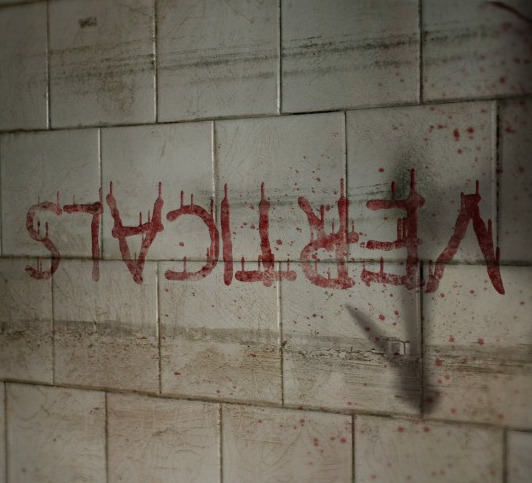
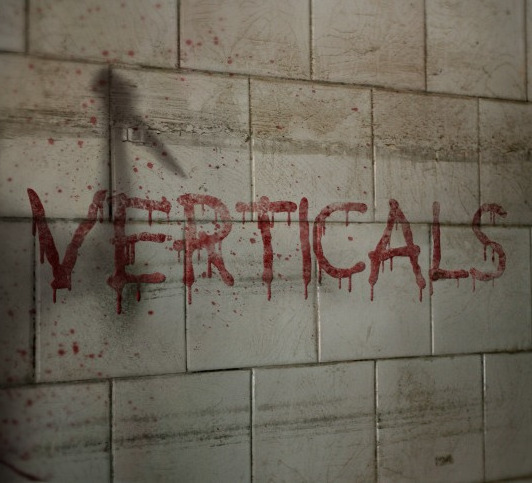
Fixed texture coordinates problems.

diff --git a/src/ScpMeshCollection.cpp b/src/ScpMeshCollection.cpp
@@ -68,8 +68,8 @@ GLSimpleMesh createCubeMesh(GLuint textureId, ftype textureMaxX, ftype textureMa
                         face.vertices.push_back(cubeVerts[indices[t]]);
                         
                         face.textureCoords.push_back(glm::vec2(
-                            (t == 1 || t == 2) ? 1 - textureMaxX : 1,
-                            (t == 2 || t == 3) ? 1 - textureMaxY : 1));
+                            (t == 1 || t == 2) ? textureMaxX : 0,
+                            (t == 2 || t == 3) ? textureMaxY : 0));
                     }
                     
                     cube.faces.push_back(face);
@@ -466,15 +466,15 @@ GLSimpleMesh sge::loadColladaMesh(const char* colladaFileName)
         
         GLSingleTextureMesh submesh;
         
-        GLuint currentTexture = TextureManager::instance().retrieveTexture(texturePath).openglId;
-        submesh.textureId = currentTexture;
+        const Texture& currentTexture = TextureManager::instance().retrieveTexture(texturePath);
+        submesh.textureId = currentTexture.openglId;
         
         int perVertex = (int)indices.size() / (nFaces * vertexCounts[0]);
         int currentOffset = 0;
         for (int i = 0; i < nFaces; i++)
         {
             GLSimpleFace face;
-            face.textureId = currentTexture;
+            face.textureId = currentTexture.openglId;
             face.isCollisionActive = false;
             face.isClimber = false;
             face.walkingSpeed = 1.0;
@@ -488,7 +488,13 @@ GLSimpleMesh sge::loadColladaMesh(const char* colladaFileName)
                 face.vertices.push_back(vec3(*base, *(base + 2), -*(base + 1)));
                 
                 ftype* textureBase = texcoordsFrom->data() + indices[currentOffset + texcoordOffset] * 2;
-                face.textureCoords.push_back(glm::vec2(*textureBase, *(textureBase + 1)));
+                
+                ftype u = *textureBase * currentTexture.getMaxU();
+                ftype v = (1 - *(textureBase + 1)) * currentTexture.getMaxV();
+                
+                //printf("tex coord %f %f\n", u, v);
+                
+                face.textureCoords.push_back(glm::vec2(u, v));
                 
                 submesh.vertices.push_back(face.vertices.back());
                 submesh.textureCoords.push_back(face.textureCoords.back());

diff --git a/src/Textures.cpp b/src/Textures.cpp
@@ -24,8 +24,8 @@ unique_ptr<Texture> createTextureFromSurface(SDL_Surface* surface)
     
     texture.extendedWidth = extendToPowerOfTwo(texture.originalWidth);
     texture.extendedHeight = extendToPowerOfTwo(texture.originalHeight);
-
-	SDL_Surface* image = SDL_CreateRGBSurface(SDL_SWSURFACE, texture.originalWidth, texture.originalHeight,
+    
+	SDL_Surface* image = SDL_CreateRGBSurface(SDL_SWSURFACE, texture.extendedWidth, texture.extendedHeight,
                                               32, 0x000000FF, 0x0000FF00, 0x00FF0000, 0xFF000000);
 	if (image == nullptr)
         return texturePtr;
@@ -33,17 +33,18 @@ unique_ptr<Texture> createTextureFromSurface(SDL_Surface* surface)
 	SDL_BlendMode saved_mode;
 	SDL_GetSurfaceBlendMode(surface, &saved_mode);
 	SDL_SetSurfaceBlendMode(surface, SDL_BLENDMODE_NONE);
-
-	SDL_Rect all = { 0, 0, texture.originalWidth, texture.originalHeight };
-	SDL_BlitSurface(surface, &all, image, &all);
-
+    
+	SDL_Rect src = { 0, 0, texture.originalWidth, texture.originalHeight };
+	SDL_Rect dst = { 0, 0 };
+	SDL_BlitSurface(surface, &src, image, &dst);
+    
 	SDL_SetSurfaceBlendMode(surface, saved_mode);
 
 	glGenTextures(1, &texture.openglId);
 	glBindTexture(GL_TEXTURE_2D, texture.openglId);
 	glTexParameteri(GL_TEXTURE_2D, GL_TEXTURE_MAG_FILTER, GL_LINEAR);
 	glTexParameteri(GL_TEXTURE_2D, GL_TEXTURE_MIN_FILTER, GL_LINEAR);
-	glTexImage2D(GL_TEXTURE_2D, 0, GL_RGBA, texture.originalWidth, texture.originalWidth, 0, GL_RGBA, GL_UNSIGNED_BYTE, image->pixels);
+	glTexImage2D(GL_TEXTURE_2D, 0, GL_RGBA, texture.extendedWidth, texture.extendedHeight, 0, GL_RGBA, GL_UNSIGNED_BYTE, image->pixels);
 	SDL_FreeSurface(image);
 
 	return texturePtr;

diff --git a/src/GLUtils.cpp b/src/GLUtils.cpp
@@ -33,7 +33,7 @@ void GLSingleTextureMesh::render() const
     {
         const vec3& vertex = vertices[triangleIndices[i]];
         const vec2& texCoords = textureCoords[triangleIndices[i]];
-        glTexCoord2d(texCoords.x, 1 - texCoords.y);
+        glTexCoord2d(texCoords.x, texCoords.y);
         glVertex3d(vertex.x, vertex.y, vertex.z);
     }
     
